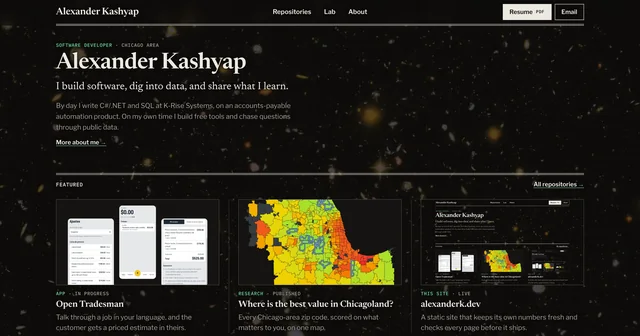
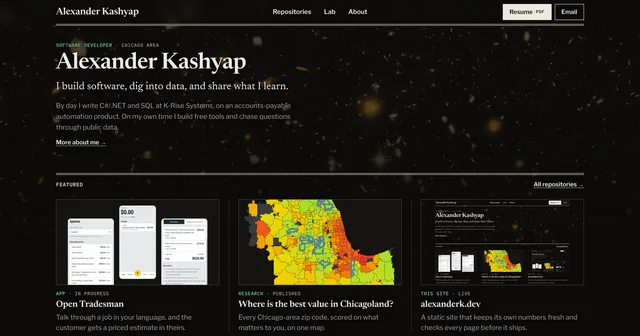
Show the Hubble photo as a band across the top, not behind the whole page
The Ultra Deep Field now sits behind the header and the opening of each page
(440px tall on phones, 600px from 720px), fading into the dark page below
and scrolling away with it, instead of staying fixed behind everything. The
glass header still shows it through while it's in view. Updates the "How
it's built" note and retakes the picture of this site.

Claude-Session: https://claude.ai/code/session_01EyWja9GQ2vc1y2HRMotNQb

diff --git a/src/styles/site.css b/src/styles/site.css
@@ -2,12 +2,12 @@
    alexanderk.dev — styles
    An editorial look: Newsreader for headlines, Libre Franklin for text and
    IBM Plex Mono for labels and dates. Dark only, with one green accent
-   ("Forest"), and a dimmed Hubble photo fixed behind every page.
+   ("Forest"), and a dimmed Hubble photo across the top of every page.
 
    1. Fonts         self-hosted, plus size-matched fallbacks (no layout jump)
    2. Tokens        colors, type, spacing; older names kept as aliases
    3. Base          reset, body, links, focus, utilities
-   4. Sky           the photo behind every page, and keeping text readable on it
+   4. Sky           the photo across the top of every page, and keeping text readable on it
    5. Header        the name and nav at the top of every page
    6. Footer
    7. Components    buttons, cards, grids, sections
@@ -183,11 +183,12 @@ main:focus { outline: none; }   /* the skip link moves focus here; no ring neede
 
 
 /* ---------- 4. Sky ---------- */
-/* Hubble's Ultra Deep Field, fixed behind every page so the page scrolls over
-   it. It's dimmed ahead of time (in the image itself), so nothing here fades
-   it. 100lvh: it stays put when a phone's toolbar slides away. */
-.sky-bg { position: fixed; top: 0; left: 0; z-index: -1; width: 100%; height: 100vh; height: 100lvh; overflow: hidden; pointer-events: none; background: var(--night); }
-.sky-bg img { display: block; width: 100%; height: 100%; max-width: none; object-fit: cover; object-position: 50% 50%; }
+/* Hubble's Ultra Deep Field across the top of every page, behind the header
+   and the page's opening, fading into the dark page below. It scrolls away
+   with the page. It's dimmed ahead of time (in the image itself). */
+.sky-bg { position: absolute; top: 0; left: 0; z-index: -1; width: 100%; height: 440px; overflow: hidden; pointer-events: none; -webkit-mask-image: linear-gradient(to bottom, #000 45%, transparent); mask-image: linear-gradient(to bottom, #000 45%, transparent); }
+.sky-bg img { display: block; width: 100%; height: 100%; max-width: none; object-fit: cover; object-position: 50% 40%; }
+@media (min-width: 720px) { .sky-bg { height: 600px; } }
 
 /* A soft dark edge around text, so a bright star behind a line never washes
    it out. Solid panels (charts, maps, code, tables) don't need it. */
